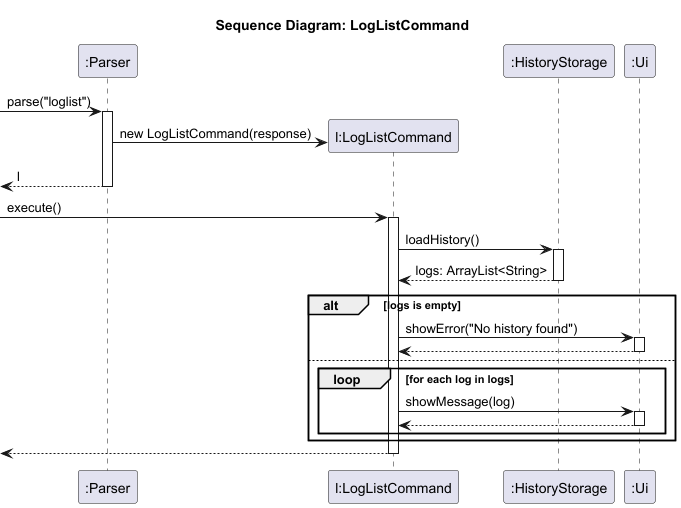
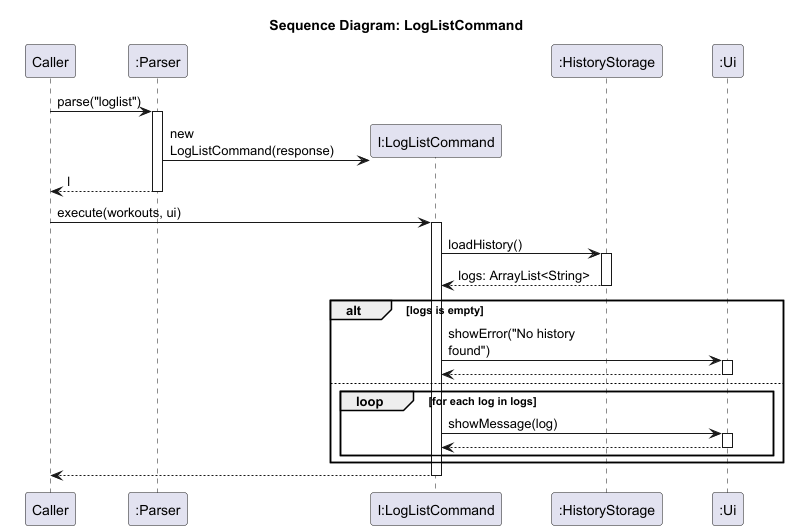
Edit UG and DG to update mark feature and resolve sequence diagram bug

diff --git a/docs/DeveloperGuide.md b/docs/DeveloperGuide.md
@@ -499,36 +499,22 @@ The following sequence diagram illustrates how the `ListCommand` determines the 
 
 ### Mark and Unmark Workout Feature (`MarkCommand`)
 
-The mark feature lets users track their weekly training progress by flagging workouts as done or not done. At a glance, users can see which workouts they have completed and which ones they still have left, without needing to remember manually.
-
-**How it works:** It supports two operations:
-
-- `mark w/WORKOUT` - marks the named workout as done
-- `unmark w/WORKOUT` - marks the named workout as not done
-
-**Examples:**
-```
-mark w/Push Day
-unmark w/Push Day
-```
-
-
-The completion status is reflected immediately when running `list`, which displays a done/not done indicator alongside each workout name, giving users a clear overview of what remains for the week.
+The `MarkCommand` allows users to track their weekly training progress by flagging workout sessions as completed (`[X]`) or incomplete (`[ ]`).
 
 #### Architecture and Component Level Design
+This command is implemented to handle two related intents—marking as done and marking as not done—within a single class based on the keyword parsed by the `Parser`.
 
-1. **Parser:** Reads the raw input, extracts the command word `mark` or `unmark`, and returns a new `MarkCommand(response)` with the full raw string as the argument.
-2. **MarkCommand:** The main loop calls `MarkCommand#execute()`, which parses the `w/` flag to identify the target workout and sets its completion status to `true` (mark) or `false` (unmark).
-3. **WorkoutList:** The command calls `WorkoutList#getWorkoutByName()` to locate the target. A `GitSwoleException` is thrown if the workout does not exist.
-4. **Storage:** `GitSwole` calls `Storage#saveWorkouts()` after execution to persist the updated completion status.
-5. **Ui:** The result is confirmed to the user via `Ui#showMessage()`.
+1.  **Status Determination:** The `MarkCommand` class identifies the first word of the raw input to set a boolean `isDone` flag. `mark` triggers a `true` state, while `unmark` triggers a `false` state.
+2.  **Defensive Target Lookup:** To enhance user experience, the command supports a dual-lookup strategy for identifying the target workout:
+    *   **By Index:** It attempts to parse the value after the `w/` flag as an integer. If successful, it retrieves the workout from the `WorkoutList` via its current position in the displayed list using `WorkoutList#getWorkoutByIndex`.
+    *   **By Name:** If an integer parse fails (`NumberFormatException`), the command treats the input as a `String` name and performs a case-insensitive lookup in the list of workouts via `WorkoutList#getWorkoutByName`.
+3.  **Business Logic Enforcement:** The command enforces data integrity through the following checks:
+    *   **Empty Workout Guard:** If the user attempts to mark a workout as "done" while it contains zero exercises, a `GitSwoleException` is thrown. This ensures progress is only recorded for sessions that have defined content.
+    *   **Redundancy Check:** If the target workout is already in the requested state (e.g., marking a workout as "done" that is already marked), the command notifies the user via the `Ui` without performing redundant operations.
+4.  **Immediate Persistence:** Upon a successful toggle, the command returns control to the main loop in `GitSwole.java`, which immediately calls `saveWorkouts()` to persist the updated completion status to disk.
 
-#### Sequence Diagrams
-
-The following sequence diagram illustrates how the `MarkCommand` works:
-
+#### Sequence Diagram
 <img src="diagrams/commands/mark/MarkCommandSD.png" width="522" />
-
 
 ---
 
@@ -583,43 +569,22 @@ The following diagram details the internal "Smart Overwriting" mechanism within 
 
 ---
 
-### History Retrieval (`LogList`)
+### History Retrieval Feature (`LogListCommand`)
 
-#### Implementation
+The `LogListCommand` serves as the retrieval interface for the `HistoryStorage` component, allowing users to review their chronologically logged training data.
 
-The `LogList` mechanism is centered around the `LogListCommand` class. It acts as the logic controller that bridges the `HistoryStorage` component and the `Ui` component.
+**Architecture and Component Level Design**
 
-##### Implementation Details: LogList Filter Logic
-The `LogListCommand` utilizes a strategy-based approach to filter history. Depending on the flags detected in the user's raw input string, it routes the request to different specialized methods within `HistoryStorage`. This prevents the command class from becoming bloated with file-parsing logic.
+The `LogListCommand` acts as a high-level controller that routes user requests to specialized retrieval methods in the storage layer.
 
-*   **Level 1 (Architecture):** The `LogListCommand` acts as a high-level controller. It requests a `List<String>` of formatted entries from the `Storage` layer and passes that list directly to the `UI` layer for rendering. This maintains a strict separation of concerns.
-*   **Level 2 (Component):** Inside the `execute()` method, the command performs flag detection:
-    *   If the `d/` flag is detected: It extracts the date string and calls `historyStorage.getEntriesByDate(date)`.
-    *   If the `w/` flag is detected: It extracts the workout name and calls `historyStorage.getEntriesByWorkout(name)`.
-    *   Otherwise: It defaults to `historyStorage.getAllEntries()` to show the complete history.
+1.  **Strategy-Based Filtering:** The command determines the filtering criteria by inspecting the flags extracted from the user's raw input:
+    *   **Date Filter:** If the `d/` flag is present, the command validates the date using a strict `ResolverStyle.STRICT` formatter (`dd-MM-uuuu`). This ensures invalid calendar dates (e.g., "30-02-2026") are caught before the lookup begins. It then calls `historyStorage.getEntriesByDate()`.
+    *   **Workout Filter:** If the `w/` flag is present, the command extracts the workout name and calls `historyStorage.getEntriesByWorkout()`.
+    *   **Comprehensive View:** If no flags are provided, it defaults to retrieving all entries sorted by date using `historyStorage.getAllEntries()`.
+2.  **Decoupled Architecture (Dependency Injection):** For testing purposes, the class provides an overloaded constructor: `LogListCommand(String response, HistoryStorage historyStorage)`. This allows the JUnit test suite to inject a mock or stubbed `HistoryStorage`, enabling deterministic testing without relying on the actual `history.txt` file on disk.
+3.  **Data Flow:** The command requests data as a `List<String>` of formatted entries. It then iterates through this list to display messages via the `Ui` component. This ensures that the command does not need to handle complex file parsing or formatting logic internally, maintaining a strict separation of concerns between logic and storage.
 
-##### Design Decision: Dependency Injection for Testing
-A key design choice was the implementation of an overloaded constructor:
-`LogListCommand(String response, HistoryStorage historyStorage)`.
-
-This allows for **Dependency Injection**. In the production environment, the app uses the default constructor which initializes a real file-linked `HistoryStorage`. During testing, the JUnit suite injects a `HistoryStorageStub`. This ensures that unit tests are:
-1.  **Isolated:** Tests do not fail if the actual `history.txt` file is missing or corrupted.
-2.  **Deterministic:** The test always receives the exact same mock data, making it reliable across different developer machines.
-
-#### Design Considerations
-
-**Aspect: Data Retrieval Strategy**
-
-*   **Alternative 1 (Current Choice): On-demand File Reading.**
-    *   **Pros:** Minimal memory footprint. The application does not need to store years of history in RAM; it only reads the file when the user explicitly asks for it.
-    *   **Cons:** Incurs a small File I/O overhead each time the command is run.
-    *   **Reason for Choosing:** Since `loglist` is a diagnostic command rather than a high-frequency entry command (like `add`), the trade-off of a few milliseconds of disk access for significantly lower RAM usage is optimal for a CLI tool.
-
-
-#### Sequence Diagram
-
-The diagram below shows how the components interact when a user requests to see their workout history.
-
+#### Sequence Diagram:
 <img src="diagrams/commands/loglist/loglistSD.png" width="681" />
 
 ---

diff --git a/docs/UserGuide.md b/docs/UserGuide.md
@@ -305,15 +305,14 @@ exit
 
 ### Feature 12: Mark / Unmark Workout
 
-**Purpose:** Marks or unmarks a workout session as completed.
+**Purpose:** Flags a workout as completed or incomplete to track your weekly progress.
 
 **Format:**
-```
-mark w/WORKOUT
-mark w/INDEX
-unmark w/WORKOUT
-unmark w/INDEX
-```
+
+`mark w/WORKOUT_NAME` or `mark w/INDEX`
+
+`unmark w/WORKOUT_NAME` or `unmark w/INDEX`
+
 
 **Example:**
 ```
@@ -515,9 +514,8 @@ loglist
 loglist w/WORKOUT_NAME
 loglist d/DATE
 ```
-* `loglist` alone prints every logged entry across all dates, in chronological order.
-* `loglist w/WORKOUT_NAME` filters the history to only entries belonging to that workout.
-* `loglist d/DATE` filters the history to all entries logged on a specific date. Date must follow the `dd-MM-yyyy` format.
+**Date Format:** `dd-MM-yyyy` (e.g., 25-12-2025).
+* Dates are strictly validated; invalid calendar dates (like 30-02-2024) will return an error.
 
 **Example** - View complete history:
 ```
